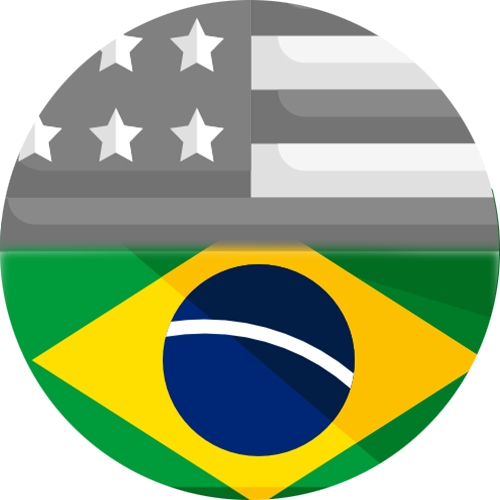
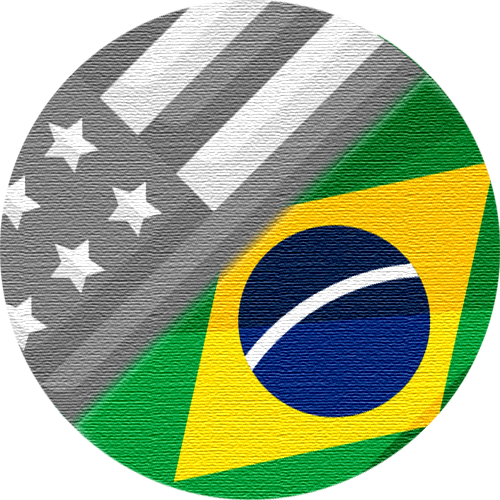
#9 - Added new responsive styles for "Switch Language Button"

diff --git a/wwwroot/js/site.js b/wwwroot/js/site.js
@@ -44,58 +44,58 @@ window.addEventListener("load", () => {
     var t3 = document.getElementById("t3");
 
     var fase = 1;
-        
+
     function animacaoAct() {
         //first loop
         if (fase == 1) {
-            
-                t1.classList.remove("sndText")
-                t1.classList.remove("podioText")
 
-                t1.classList.add("podioText");
+            t1.classList.remove("sndText")
+            t1.classList.remove("podioText")
 
-                t2.classList.remove("trdText");
-                t2.classList.remove("sndText");
+            t1.classList.add("podioText");
 
-                t2.classList.add("sndText");
+            t2.classList.remove("trdText");
+            t2.classList.remove("sndText");
 
-                t3.classList.remove("podioText");
-                t3.classList.remove("trdText");
+            t2.classList.add("sndText");
+
+            t3.classList.remove("podioText");
+            t3.classList.remove("trdText");
 
             t3.classList.add("trdText");
 
             fase++;
 
-         
+
         } else if (fase == 2) {
-         
-                t1.classList.remove("podioText")
-                t1.classList.add("trdText");
 
-                t2.classList.remove("sndText");
-                t2.classList.add("podioText");
+            t1.classList.remove("podioText")
+            t1.classList.add("trdText");
 
-                t3.classList.remove("trdText");
-                t3.classList.add("sndText");
+            t2.classList.remove("sndText");
+            t2.classList.add("podioText");
+
+            t3.classList.remove("trdText");
+            t3.classList.add("sndText");
             fase++;
-                  
+
         } else {
             fase = 1;
-        
-                t1.classList.remove("trdText")
-                t1.classList.add("sndText");
 
-                t2.classList.remove("podioText");
-                t2.classList.add("trdText");
+            t1.classList.remove("trdText")
+            t1.classList.add("sndText");
 
-                t3.classList.remove("sndText");
-                t3.classList.add("podioText");
-    
+            t2.classList.remove("podioText");
+            t2.classList.add("trdText");
+
+            t3.classList.remove("sndText");
+            t3.classList.add("podioText");
+
         }
 
     }
 
-        setInterval(animacaoAct, 5000);
+    setInterval(animacaoAct, 5000);
 
     /* ======================================= MENU JS ======================================= */
 
@@ -120,7 +120,7 @@ window.addEventListener("load", () => {
     var braVideo = document.getElementById("bra-video");
 
 
-    switchButton.addEventListener("click", ()=>{
+    switchButton.addEventListener("click", () => {
         if (selectedLanguage == "eng") {
 
             //switch to portuguese
@@ -129,11 +129,12 @@ window.addEventListener("load", () => {
             titlePresentation.textContent = "Apresentação";
             switchLabel.textContent = "Alterar Idioma";
 
-            engVideo.style.cssText += "display: none";
-            braVideo.style.cssText += "display: block";
+            engVideo.style.cssText += "display:  none";
+            braVideo.style.cssText += "display:  block";
 
-            usImage.style.cssText += "display: none";
-            brImage.style.cssText += "display: block";
+            usImage.style.cssText += "opacity: 0";
+            brImage.style.cssText += "opacity: 1";
+
 
             engVideo.pause();
 
@@ -146,11 +147,12 @@ window.addEventListener("load", () => {
             titlePresentation.textContent = "Presentation";
             switchLabel.textContent = "Switch Language";
 
-            engVideo.style.cssText += "display: block";
-            braVideo.style.cssText += "display: none";
+            engVideo.style.cssText += "display: block;";
+            braVideo.style.cssText += "display: none;";
 
-            usImage.style.cssText += "display: block";
-            brImage.style.cssText += "display: none";
+            usImage.style.cssText += "opacity: 1";
+            brImage.style.cssText += "opacity: 0";
+                       
 
             braVideo.pause();
 

diff --git a/wwwroot/css/style.css b/wwwroot/css/style.css
@@ -856,7 +856,7 @@ navButton {
 
     #switch-language:hover {
         cursor: pointer;
-        border: 2px solid rgba(255,255,255, 0.85);
+        border-color: rgba(255,255,255, 0.5);
     }
 
 .label-language {
@@ -884,9 +884,16 @@ video {
 }
 
 #BRflag {
-    display: none;
+    opacity: 0;
+    z-index: 0;
+}
+#USflag {
+    z-index: 1;
 }
 
+#USflag, #BRflag {
+    transition: 0.5s ease-in-out;
+}
 
 /* ======================================= APRESENTAÇÃO ======================================= */
 
